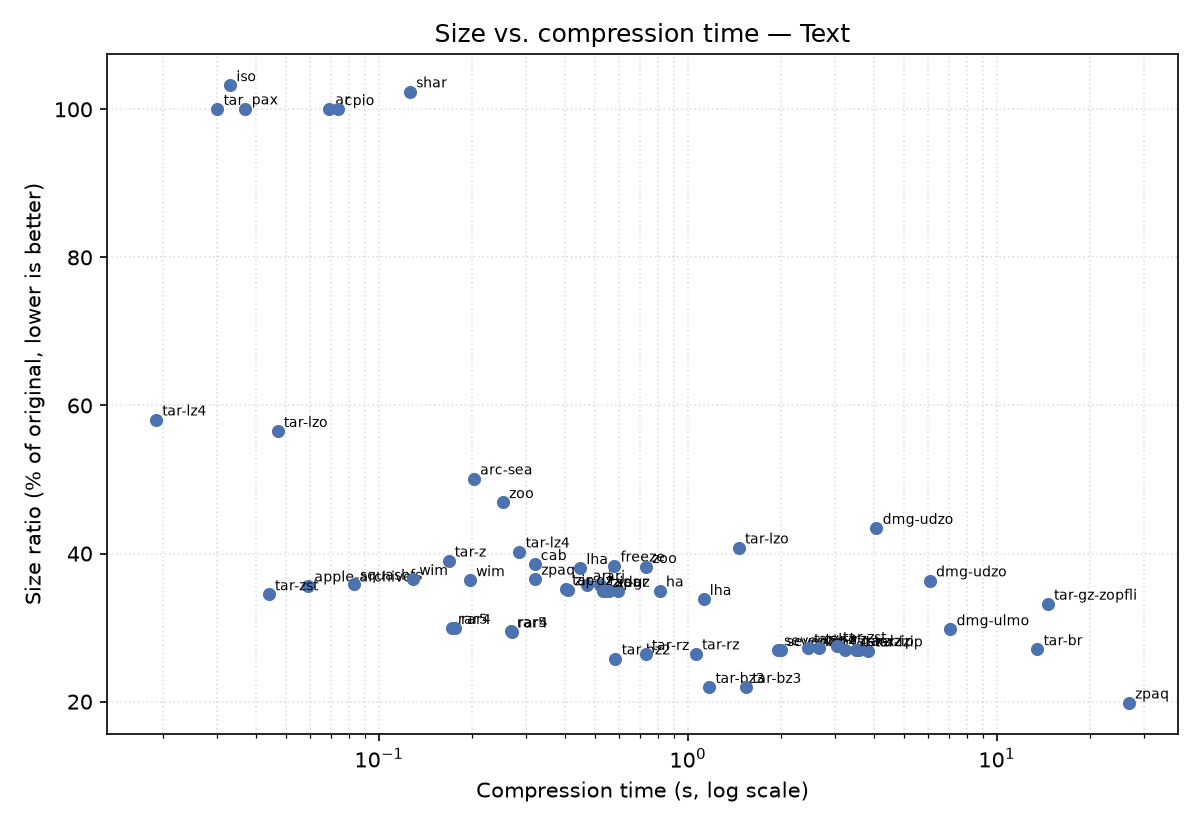
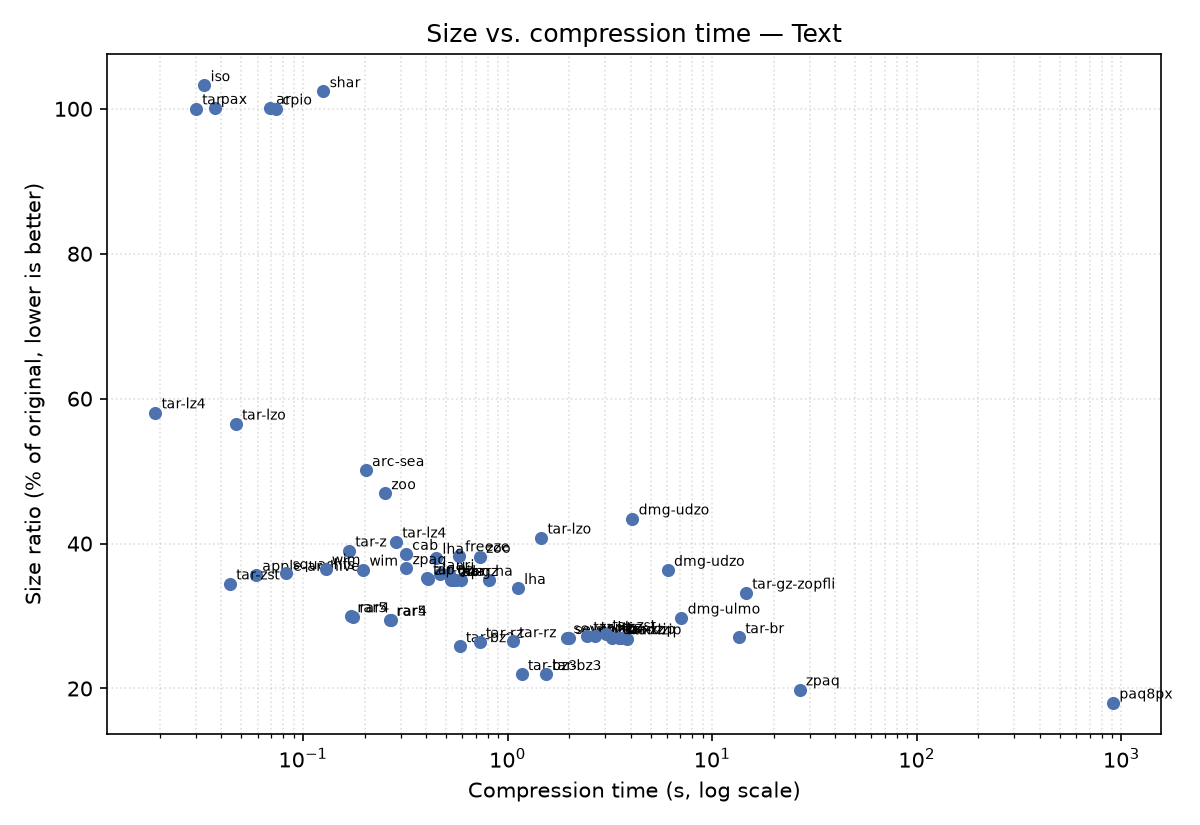
Add paq8px text result (18.0%, the smallest of any format/category)
paq8px compresses the text category to 18.04% at ~12 KB/s (~15 min each
way) vs bzip2's 25.8% in 0.6s - the paper's diminishing-returns headline.
Paper and tables updated with the concrete figure.

diff --git a/results/tables/paper_results.md b/results/tables/paper_results.md
@@ -66,72 +66,73 @@
 
 | Rank | Format | Level | Size | Ratio | Compress | Decompress | Notes |
 |---:|---|---|---:|---:|---:|---:|---|
-| 1 | zpaq (journaling PAQ-family) | max | 2.19 MB | 19.85% | 26.8 | 27.9 |  |
-| 2 | tar.bz3 (bzip3) | default | 2.42 MB | 21.96% | 1.17 | 0.65 |  |
-| 3 | tar.bz3 (bzip3) | max | 2.42 MB | 21.96% | 1.54 | 0.84 |  |
-| 4 | tar.bz2 (bzip2) | default | 2.85 MB | 25.81% | 0.58 | 0.21 |  |
-| 5 | tar.rz (rzip) | default | 2.91 MB | 26.42% | 0.73 | 0.30 |  |
-| 6 | tar.rz (rzip) | max | 2.92 MB | 26.50% | 1.06 | 0.32 |  |
-| 7 | tar.lz (lzip) | max | 2.96 MB | 26.89% | 3.84 | 0.22 |  |
-| 8 | tar.xz (xz/LZMA2) | max | 2.97 MB | 26.92% | 3.50 | 0.13 |  |
-| 9 | tar.xz (xz/LZMA2) | default | 2.97 MB | 26.92% | 3.23 | 0.12 |  |
-| 10 | 7z (7-Zip, LZMA2) | max | 2.97 MB | 26.93% | 2.00 | 0.09 |  |
-| 11 | tar.lz (lzip) | default | 2.97 MB | 26.98% | 3.59 | 0.22 |  |
-| 12 | 7z (7-Zip, LZMA2) | default | 2.98 MB | 27.03% | 1.96 | 0.09 |  |
-| 13 | tar.br (Brotli) | default | 2.98 MB | 27.05% | 13.5 | 0.04 |  |
-| 14 | tar.lrz (lrzip) | default | 3.00 MB | 27.24% | 2.45 | 0.23 |  |
-| 15 | tar.lrz (lrzip) | max | 3.00 MB | 27.24% | 2.66 | 0.23 |  |
-| 16 | tar.zst (Zstandard) | max | 3.03 MB | 27.48% | 3.03 | 0.02 |  |
-| 17 | RAR 4 (legacy format) | max | 3.25 MB | 29.45% | 0.27 | 0.06 |  |
-| 18 | RAR 5 (WinRAR/rar) | max | 3.25 MB | 29.48% | 0.27 | 0.04 |  |
-| 19 | DMG (ULMO, lzma-compressed image) | default | 3.28 MB | 29.75% | 7.07 | 0.36 |  |
-| 20 | RAR 4 (legacy format) | default | 3.30 MB | 29.92% | 0.18 | 0.06 |  |
-| 21 | RAR 5 (WinRAR/rar) | default | 3.30 MB | 29.95% | 0.17 | 0.05 |  |
-| 22 | tar.gz (zopfli, exhaustive deflate) | default | 3.66 MB | 33.20% | 14.6 | 0.03 |  |
-| 23 | LHA/LZH (1988, lh5) | max | 3.73 MB | 33.84% | 1.12 | 0.14 |  |
-| 24 | tar.zst (Zstandard) | default | 3.80 MB | 34.48% | 0.04 | 0.02 |  |
-| 25 | ZIP (Info-ZIP) | max | 3.85 MB | 34.92% | 0.54 | 0.07 |  |
-| 26 | ZIP (PKZIP 2.04g, 1993) (emu) | max | 3.85 MB | 34.95% | — | — | emulated (size only) |
-| 27 | tar.gz (gzip) | max | 3.85 MB | 34.96% | 0.53 | 0.04 |  |
-| 28 | xar (macOS eXtensible ARchiver) | default | 3.85 MB | 34.96% | 0.56 | 0.04 |  |
-| 29 | dar (Disk ARchive) | default | 3.85 MB | 34.96% | 0.59 | 0.05 |  |
-| 30 | HA (1993, PPM-family) | default | 3.86 MB | 34.99% | 0.81 | 0.35 |  |
-| 31 | ZIP (Info-ZIP) | default | 3.87 MB | 35.14% | 0.41 | 0.09 |  |
-| 32 | tar.gz (gzip) | default | 3.88 MB | 35.18% | 0.40 | 0.04 |  |
-| 33 | ZIP (PKZIP 2.04g, 1993) (emu) | default | 3.92 MB | 35.52% | — | — | emulated (size only) |
-| 34 | Apple Archive (.aar, lzfse) | default | 3.93 MB | 35.66% | 0.06 | 0.04 |  |
-| 35 | ARJ (1991) | max | 3.94 MB | 35.75% | 0.52 | 0.15 |  |
-| 36 | ARJ (1991) | default | 3.94 MB | 35.77% | 0.47 | 0.16 |  |
-| 37 | SquashFS (mksquashfs) | default | 3.96 MB | 35.89% | 0.08 | 0.03 |  |
-| 38 | DMG (UDZO, zlib-compressed image) | max | 4.01 MB | 36.35% | 6.07 | 0.22 |  |
-| 39 | WIM (wimlib, LZX) | max | 4.01 MB | 36.38% | 0.20 | 0.05 |  |
-| 40 | WIM (wimlib, LZX) | default | 4.03 MB | 36.53% | 0.13 | 0.05 |  |
-| 41 | zpaq (journaling PAQ-family) | default | 4.03 MB | 36.59% | 0.32 | 1.18 |  |
-| 42 | LHA/LZH (1988, lh5) | default | 4.19 MB | 38.02% | 0.45 | 0.16 |  |
-| 43 | zoo (1986) | max | 4.21 MB | 38.15% | 0.73 | 0.23 |  |
-| 44 | freeze (1993) | default | 4.23 MB | 38.35% | 0.58 | 0.22 |  |
-| 45 | CAB (gcab, MSZIP) | default | 4.25 MB | 38.55% | 0.32 | 0.05 |  |
-| 46 | tar.Z (compress, LZW 1984) | default | 4.30 MB | 39.03% | 0.17 | 0.09 |  |
-| 47 | tar.lz4 (LZ4) | max | 4.44 MB | 40.26% | 0.28 | 0.03 |  |
-| 48 | tar.lzo (lzop) | max | 4.50 MB | 40.80% | 1.46 | 0.03 |  |
-| 49 | DMG (UDZO, zlib-compressed image) | default | 4.79 MB | 43.44% | 4.08 | 0.23 |  |
-| 50 | zoo (1986) | default | 5.17 MB | 46.93% | 0.25 | 0.09 |  |
-| 51 | ARC (SEA, 1985) | default | 5.53 MB | 50.12% | 0.20 | 0.12 |  |
-| 52 | tar.lzo (lzop) | default | 6.23 MB | 56.53% | 0.05 | 0.05 |  |
-| 53 | tar.lz4 (LZ4) | default | 6.40 MB | 58.09% | 0.02 | 0.02 |  |
-| 54 | cpio (appendix: store-only) | default | 11.02 MB | 100.01% | 0.07 | 0.02 |  |
-| 55 | tar (uncompressed, baseline) | default | 11.03 MB | 100.04% | 0.03 | 0.03 |  |
-| 56 | pax (appendix: POSIX archiver) | default | 11.04 MB | 100.10% | 0.04 | 0.04 |  |
-| 57 | ar (appendix: unix archiver, store-only) | default | 11.04 MB | 100.10% | 0.07 | 0.04 |  |
-| 58 | shar (appendix: shell archive) | default | 11.29 MB | 102.40% | 0.13 | 0.18 |  |
-| 59 | ISO 9660 (mkisofs, store-only) | default | 11.38 MB | 103.24% | 0.03 | 0.01 |  |
+| 1 | paq8px (context mixing, state of the art) | default | 1.99 MB | 18.04% | 15.2m | 15.2m |  |
+| 2 | zpaq (journaling PAQ-family) | max | 2.19 MB | 19.85% | 26.8 | 27.9 |  |
+| 3 | tar.bz3 (bzip3) | default | 2.42 MB | 21.96% | 1.17 | 0.65 |  |
+| 4 | tar.bz3 (bzip3) | max | 2.42 MB | 21.96% | 1.54 | 0.84 |  |
+| 5 | tar.bz2 (bzip2) | default | 2.85 MB | 25.81% | 0.58 | 0.21 |  |
+| 6 | tar.rz (rzip) | default | 2.91 MB | 26.42% | 0.73 | 0.30 |  |
+| 7 | tar.rz (rzip) | max | 2.92 MB | 26.50% | 1.06 | 0.32 |  |
+| 8 | tar.lz (lzip) | max | 2.96 MB | 26.89% | 3.84 | 0.22 |  |
+| 9 | tar.xz (xz/LZMA2) | max | 2.97 MB | 26.92% | 3.50 | 0.13 |  |
+| 10 | tar.xz (xz/LZMA2) | default | 2.97 MB | 26.92% | 3.23 | 0.12 |  |
+| 11 | 7z (7-Zip, LZMA2) | max | 2.97 MB | 26.93% | 2.00 | 0.09 |  |
+| 12 | tar.lz (lzip) | default | 2.97 MB | 26.98% | 3.59 | 0.22 |  |
+| 13 | 7z (7-Zip, LZMA2) | default | 2.98 MB | 27.03% | 1.96 | 0.09 |  |
+| 14 | tar.br (Brotli) | default | 2.98 MB | 27.05% | 13.5 | 0.04 |  |
+| 15 | tar.lrz (lrzip) | default | 3.00 MB | 27.24% | 2.45 | 0.23 |  |
+| 16 | tar.lrz (lrzip) | max | 3.00 MB | 27.24% | 2.66 | 0.23 |  |
+| 17 | tar.zst (Zstandard) | max | 3.03 MB | 27.48% | 3.03 | 0.02 |  |
+| 18 | RAR 4 (legacy format) | max | 3.25 MB | 29.45% | 0.27 | 0.06 |  |
+| 19 | RAR 5 (WinRAR/rar) | max | 3.25 MB | 29.48% | 0.27 | 0.04 |  |
+| 20 | DMG (ULMO, lzma-compressed image) | default | 3.28 MB | 29.75% | 7.07 | 0.36 |  |
+| 21 | RAR 4 (legacy format) | default | 3.30 MB | 29.92% | 0.18 | 0.06 |  |
+| 22 | RAR 5 (WinRAR/rar) | default | 3.30 MB | 29.95% | 0.17 | 0.05 |  |
+| 23 | tar.gz (zopfli, exhaustive deflate) | default | 3.66 MB | 33.20% | 14.6 | 0.03 |  |
+| 24 | LHA/LZH (1988, lh5) | max | 3.73 MB | 33.84% | 1.12 | 0.14 |  |
+| 25 | tar.zst (Zstandard) | default | 3.80 MB | 34.48% | 0.04 | 0.02 |  |
+| 26 | ZIP (Info-ZIP) | max | 3.85 MB | 34.92% | 0.54 | 0.07 |  |
+| 27 | ZIP (PKZIP 2.04g, 1993) (emu) | max | 3.85 MB | 34.95% | — | — | emulated (size only) |
+| 28 | tar.gz (gzip) | max | 3.85 MB | 34.96% | 0.53 | 0.04 |  |
+| 29 | xar (macOS eXtensible ARchiver) | default | 3.85 MB | 34.96% | 0.56 | 0.04 |  |
+| 30 | dar (Disk ARchive) | default | 3.85 MB | 34.96% | 0.59 | 0.05 |  |
+| 31 | HA (1993, PPM-family) | default | 3.86 MB | 34.99% | 0.81 | 0.35 |  |
+| 32 | ZIP (Info-ZIP) | default | 3.87 MB | 35.14% | 0.41 | 0.09 |  |
+| 33 | tar.gz (gzip) | default | 3.88 MB | 35.18% | 0.40 | 0.04 |  |
+| 34 | ZIP (PKZIP 2.04g, 1993) (emu) | default | 3.92 MB | 35.52% | — | — | emulated (size only) |
+| 35 | Apple Archive (.aar, lzfse) | default | 3.93 MB | 35.66% | 0.06 | 0.04 |  |
+| 36 | ARJ (1991) | max | 3.94 MB | 35.75% | 0.52 | 0.15 |  |
+| 37 | ARJ (1991) | default | 3.94 MB | 35.77% | 0.47 | 0.16 |  |
+| 38 | SquashFS (mksquashfs) | default | 3.96 MB | 35.89% | 0.08 | 0.03 |  |
+| 39 | DMG (UDZO, zlib-compressed image) | max | 4.01 MB | 36.35% | 6.07 | 0.22 |  |
+| 40 | WIM (wimlib, LZX) | max | 4.01 MB | 36.38% | 0.20 | 0.05 |  |
+| 41 | WIM (wimlib, LZX) | default | 4.03 MB | 36.53% | 0.13 | 0.05 |  |
+| 42 | zpaq (journaling PAQ-family) | default | 4.03 MB | 36.59% | 0.32 | 1.18 |  |
+| 43 | LHA/LZH (1988, lh5) | default | 4.19 MB | 38.02% | 0.45 | 0.16 |  |
+| 44 | zoo (1986) | max | 4.21 MB | 38.15% | 0.73 | 0.23 |  |
+| 45 | freeze (1993) | default | 4.23 MB | 38.35% | 0.58 | 0.22 |  |
+| 46 | CAB (gcab, MSZIP) | default | 4.25 MB | 38.55% | 0.32 | 0.05 |  |
+| 47 | tar.Z (compress, LZW 1984) | default | 4.30 MB | 39.03% | 0.17 | 0.09 |  |
+| 48 | tar.lz4 (LZ4) | max | 4.44 MB | 40.26% | 0.28 | 0.03 |  |
+| 49 | tar.lzo (lzop) | max | 4.50 MB | 40.80% | 1.46 | 0.03 |  |
+| 50 | DMG (UDZO, zlib-compressed image) | default | 4.79 MB | 43.44% | 4.08 | 0.23 |  |
+| 51 | zoo (1986) | default | 5.17 MB | 46.93% | 0.25 | 0.09 |  |
+| 52 | ARC (SEA, 1985) | default | 5.53 MB | 50.12% | 0.20 | 0.12 |  |
+| 53 | tar.lzo (lzop) | default | 6.23 MB | 56.53% | 0.05 | 0.05 |  |
+| 54 | tar.lz4 (LZ4) | default | 6.40 MB | 58.09% | 0.02 | 0.02 |  |
+| 55 | cpio (appendix: store-only) | default | 11.02 MB | 100.01% | 0.07 | 0.02 |  |
+| 56 | tar (uncompressed, baseline) | default | 11.03 MB | 100.04% | 0.03 | 0.03 |  |
+| 57 | pax (appendix: POSIX archiver) | default | 11.04 MB | 100.10% | 0.04 | 0.04 |  |
+| 58 | ar (appendix: unix archiver, store-only) | default | 11.04 MB | 100.10% | 0.07 | 0.04 |  |
+| 59 | shar (appendix: shell archive) | default | 11.29 MB | 102.40% | 0.13 | 0.18 |  |
+| 60 | ISO 9660 (mkisofs, store-only) | default | 11.38 MB | 103.24% | 0.03 | 0.01 |  |
 
 
 ### Best format per content category
 
 | Category | Smallest format | Ratio | Practical winner (mainstream) |
 |---|---|---:|---|
-| Text | zpaq (journaling PAQ-family) (max) | 19.85% | tar.xz (xz/LZMA2) — 26.92% |
+| Text | paq8px (context mixing, state of the art) (default) | 18.04% | tar.xz (xz/LZMA2) — 26.92% |
 | Documents | zpaq (journaling PAQ-family) (max) | 59.31% | tar.zst (Zstandard) — 59.72% |
 | Images | zpaq (journaling PAQ-family) (max) | 67.37% | RAR 5 (WinRAR/rar) — 74.25% |
 | Video | zpaq (journaling PAQ-family) (max) | 98.50% | tar.xz (xz/LZMA2) — 98.62% |

diff --git a/results/tables/results.md b/results/tables/results.md
@@ -8,65 +8,66 @@ Generated by `harness/report.py` from the committed raw run-units in `results/ra
 
 | Rank | Format | Level | Size | Ratio | Compress | Decompress | Notes |
 |---:|---|---|---:|---:|---:|---:|---|
-| 1 | zpaq (journaling PAQ-family) | max | 2.19 MB | 19.85% | 26.8 | 27.9 |  |
-| 2 | tar.bz3 (bzip3) | default | 2.42 MB | 21.96% | 1.17 | 0.65 |  |
-| 3 | tar.bz3 (bzip3) | max | 2.42 MB | 21.96% | 1.54 | 0.84 |  |
-| 4 | tar.bz2 (bzip2) | default | 2.85 MB | 25.81% | 0.58 | 0.21 |  |
-| 5 | tar.rz (rzip) | default | 2.91 MB | 26.42% | 0.73 | 0.30 |  |
-| 6 | tar.rz (rzip) | max | 2.92 MB | 26.50% | 1.06 | 0.32 |  |
-| 7 | tar.lz (lzip) | max | 2.96 MB | 26.89% | 3.84 | 0.22 |  |
-| 8 | tar.xz (xz/LZMA2) | max | 2.97 MB | 26.92% | 3.50 | 0.13 |  |
-| 9 | tar.xz (xz/LZMA2) | default | 2.97 MB | 26.92% | 3.23 | 0.12 |  |
-| 10 | 7z (7-Zip, LZMA2) | max | 2.97 MB | 26.93% | 2.00 | 0.09 |  |
-| 11 | tar.lz (lzip) | default | 2.97 MB | 26.98% | 3.59 | 0.22 |  |
-| 12 | 7z (7-Zip, LZMA2) | default | 2.98 MB | 27.03% | 1.96 | 0.09 |  |
-| 13 | tar.br (Brotli) | default | 2.98 MB | 27.05% | 13.5 | 0.04 |  |
-| 14 | tar.lrz (lrzip) | default | 3.00 MB | 27.24% | 2.45 | 0.23 |  |
-| 15 | tar.lrz (lrzip) | max | 3.00 MB | 27.24% | 2.66 | 0.23 |  |
-| 16 | tar.zst (Zstandard) | max | 3.03 MB | 27.48% | 3.03 | 0.02 |  |
-| 17 | RAR 4 (legacy format) | max | 3.25 MB | 29.45% | 0.27 | 0.06 |  |
-| 18 | RAR 5 (WinRAR/rar) | max | 3.25 MB | 29.48% | 0.27 | 0.04 |  |
-| 19 | DMG (ULMO, lzma-compressed image) | default | 3.28 MB | 29.75% | 7.07 | 0.36 |  |
-| 20 | RAR 4 (legacy format) | default | 3.30 MB | 29.92% | 0.18 | 0.06 |  |
-| 21 | RAR 5 (WinRAR/rar) | default | 3.30 MB | 29.95% | 0.17 | 0.05 |  |
-| 22 | tar.gz (zopfli, exhaustive deflate) | default | 3.66 MB | 33.20% | 14.6 | 0.03 |  |
-| 23 | LHA/LZH (1988, lh5) | max | 3.73 MB | 33.84% | 1.12 | 0.14 |  |
-| 24 | tar.zst (Zstandard) | default | 3.80 MB | 34.48% | 0.04 | 0.02 |  |
-| 25 | ZIP (Info-ZIP) | max | 3.85 MB | 34.92% | 0.54 | 0.07 |  |
-| 26 | ZIP (PKZIP 2.04g, 1993) (emu) | max | 3.85 MB | 34.95% | — | — | emulated (size only) |
-| 27 | tar.gz (gzip) | max | 3.85 MB | 34.96% | 0.53 | 0.04 |  |
-| 28 | xar (macOS eXtensible ARchiver) | default | 3.85 MB | 34.96% | 0.56 | 0.04 |  |
-| 29 | dar (Disk ARchive) | default | 3.85 MB | 34.96% | 0.59 | 0.05 |  |
-| 30 | HA (1993, PPM-family) | default | 3.86 MB | 34.99% | 0.81 | 0.35 |  |
-| 31 | ZIP (Info-ZIP) | default | 3.87 MB | 35.14% | 0.41 | 0.09 |  |
-| 32 | tar.gz (gzip) | default | 3.88 MB | 35.18% | 0.40 | 0.04 |  |
-| 33 | ZIP (PKZIP 2.04g, 1993) (emu) | default | 3.92 MB | 35.52% | — | — | emulated (size only) |
-| 34 | Apple Archive (.aar, lzfse) | default | 3.93 MB | 35.66% | 0.06 | 0.04 |  |
-| 35 | ARJ (1991) | max | 3.94 MB | 35.75% | 0.52 | 0.15 |  |
-| 36 | ARJ (1991) | default | 3.94 MB | 35.77% | 0.47 | 0.16 |  |
-| 37 | SquashFS (mksquashfs) | default | 3.96 MB | 35.89% | 0.08 | 0.03 |  |
-| 38 | DMG (UDZO, zlib-compressed image) | max | 4.01 MB | 36.35% | 6.07 | 0.22 |  |
-| 39 | WIM (wimlib, LZX) | max | 4.01 MB | 36.38% | 0.20 | 0.05 |  |
-| 40 | WIM (wimlib, LZX) | default | 4.03 MB | 36.53% | 0.13 | 0.05 |  |
-| 41 | zpaq (journaling PAQ-family) | default | 4.03 MB | 36.59% | 0.32 | 1.18 |  |
-| 42 | LHA/LZH (1988, lh5) | default | 4.19 MB | 38.02% | 0.45 | 0.16 |  |
-| 43 | zoo (1986) | max | 4.21 MB | 38.15% | 0.73 | 0.23 |  |
-| 44 | freeze (1993) | default | 4.23 MB | 38.35% | 0.58 | 0.22 |  |
-| 45 | CAB (gcab, MSZIP) | default | 4.25 MB | 38.55% | 0.32 | 0.05 |  |
-| 46 | tar.Z (compress, LZW 1984) | default | 4.30 MB | 39.03% | 0.17 | 0.09 |  |
-| 47 | tar.lz4 (LZ4) | max | 4.44 MB | 40.26% | 0.28 | 0.03 |  |
-| 48 | tar.lzo (lzop) | max | 4.50 MB | 40.80% | 1.46 | 0.03 |  |
-| 49 | DMG (UDZO, zlib-compressed image) | default | 4.79 MB | 43.44% | 4.08 | 0.23 |  |
-| 50 | zoo (1986) | default | 5.17 MB | 46.93% | 0.25 | 0.09 |  |
-| 51 | ARC (SEA, 1985) | default | 5.53 MB | 50.12% | 0.20 | 0.12 |  |
-| 52 | tar.lzo (lzop) | default | 6.23 MB | 56.53% | 0.05 | 0.05 |  |
-| 53 | tar.lz4 (LZ4) | default | 6.40 MB | 58.09% | 0.02 | 0.02 |  |
-| 54 | cpio (appendix: store-only) | default | 11.02 MB | 100.01% | 0.07 | 0.02 |  |
-| 55 | tar (uncompressed, baseline) | default | 11.03 MB | 100.04% | 0.03 | 0.03 |  |
-| 56 | pax (appendix: POSIX archiver) | default | 11.04 MB | 100.10% | 0.04 | 0.04 |  |
-| 57 | ar (appendix: unix archiver, store-only) | default | 11.04 MB | 100.10% | 0.07 | 0.04 |  |
-| 58 | shar (appendix: shell archive) | default | 11.29 MB | 102.40% | 0.13 | 0.18 |  |
-| 59 | ISO 9660 (mkisofs, store-only) | default | 11.38 MB | 103.24% | 0.03 | 0.01 |  |
+| 1 | paq8px (context mixing, state of the art) | default | 1.99 MB | 18.04% | 15.2m | 15.2m |  |
+| 2 | zpaq (journaling PAQ-family) | max | 2.19 MB | 19.85% | 26.8 | 27.9 |  |
+| 3 | tar.bz3 (bzip3) | default | 2.42 MB | 21.96% | 1.17 | 0.65 |  |
+| 4 | tar.bz3 (bzip3) | max | 2.42 MB | 21.96% | 1.54 | 0.84 |  |
+| 5 | tar.bz2 (bzip2) | default | 2.85 MB | 25.81% | 0.58 | 0.21 |  |
+| 6 | tar.rz (rzip) | default | 2.91 MB | 26.42% | 0.73 | 0.30 |  |
+| 7 | tar.rz (rzip) | max | 2.92 MB | 26.50% | 1.06 | 0.32 |  |
+| 8 | tar.lz (lzip) | max | 2.96 MB | 26.89% | 3.84 | 0.22 |  |
+| 9 | tar.xz (xz/LZMA2) | max | 2.97 MB | 26.92% | 3.50 | 0.13 |  |
+| 10 | tar.xz (xz/LZMA2) | default | 2.97 MB | 26.92% | 3.23 | 0.12 |  |
+| 11 | 7z (7-Zip, LZMA2) | max | 2.97 MB | 26.93% | 2.00 | 0.09 |  |
+| 12 | tar.lz (lzip) | default | 2.97 MB | 26.98% | 3.59 | 0.22 |  |
+| 13 | 7z (7-Zip, LZMA2) | default | 2.98 MB | 27.03% | 1.96 | 0.09 |  |
+| 14 | tar.br (Brotli) | default | 2.98 MB | 27.05% | 13.5 | 0.04 |  |
+| 15 | tar.lrz (lrzip) | default | 3.00 MB | 27.24% | 2.45 | 0.23 |  |
+| 16 | tar.lrz (lrzip) | max | 3.00 MB | 27.24% | 2.66 | 0.23 |  |
+| 17 | tar.zst (Zstandard) | max | 3.03 MB | 27.48% | 3.03 | 0.02 |  |
+| 18 | RAR 4 (legacy format) | max | 3.25 MB | 29.45% | 0.27 | 0.06 |  |
+| 19 | RAR 5 (WinRAR/rar) | max | 3.25 MB | 29.48% | 0.27 | 0.04 |  |
+| 20 | DMG (ULMO, lzma-compressed image) | default | 3.28 MB | 29.75% | 7.07 | 0.36 |  |
+| 21 | RAR 4 (legacy format) | default | 3.30 MB | 29.92% | 0.18 | 0.06 |  |
+| 22 | RAR 5 (WinRAR/rar) | default | 3.30 MB | 29.95% | 0.17 | 0.05 |  |
+| 23 | tar.gz (zopfli, exhaustive deflate) | default | 3.66 MB | 33.20% | 14.6 | 0.03 |  |
+| 24 | LHA/LZH (1988, lh5) | max | 3.73 MB | 33.84% | 1.12 | 0.14 |  |
+| 25 | tar.zst (Zstandard) | default | 3.80 MB | 34.48% | 0.04 | 0.02 |  |
+| 26 | ZIP (Info-ZIP) | max | 3.85 MB | 34.92% | 0.54 | 0.07 |  |
+| 27 | ZIP (PKZIP 2.04g, 1993) (emu) | max | 3.85 MB | 34.95% | — | — | emulated (size only) |
+| 28 | tar.gz (gzip) | max | 3.85 MB | 34.96% | 0.53 | 0.04 |  |
+| 29 | xar (macOS eXtensible ARchiver) | default | 3.85 MB | 34.96% | 0.56 | 0.04 |  |
+| 30 | dar (Disk ARchive) | default | 3.85 MB | 34.96% | 0.59 | 0.05 |  |
+| 31 | HA (1993, PPM-family) | default | 3.86 MB | 34.99% | 0.81 | 0.35 |  |
+| 32 | ZIP (Info-ZIP) | default | 3.87 MB | 35.14% | 0.41 | 0.09 |  |
+| 33 | tar.gz (gzip) | default | 3.88 MB | 35.18% | 0.40 | 0.04 |  |
+| 34 | ZIP (PKZIP 2.04g, 1993) (emu) | default | 3.92 MB | 35.52% | — | — | emulated (size only) |
+| 35 | Apple Archive (.aar, lzfse) | default | 3.93 MB | 35.66% | 0.06 | 0.04 |  |
+| 36 | ARJ (1991) | max | 3.94 MB | 35.75% | 0.52 | 0.15 |  |
+| 37 | ARJ (1991) | default | 3.94 MB | 35.77% | 0.47 | 0.16 |  |
+| 38 | SquashFS (mksquashfs) | default | 3.96 MB | 35.89% | 0.08 | 0.03 |  |
+| 39 | DMG (UDZO, zlib-compressed image) | max | 4.01 MB | 36.35% | 6.07 | 0.22 |  |
+| 40 | WIM (wimlib, LZX) | max | 4.01 MB | 36.38% | 0.20 | 0.05 |  |
+| 41 | WIM (wimlib, LZX) | default | 4.03 MB | 36.53% | 0.13 | 0.05 |  |
+| 42 | zpaq (journaling PAQ-family) | default | 4.03 MB | 36.59% | 0.32 | 1.18 |  |
+| 43 | LHA/LZH (1988, lh5) | default | 4.19 MB | 38.02% | 0.45 | 0.16 |  |
+| 44 | zoo (1986) | max | 4.21 MB | 38.15% | 0.73 | 0.23 |  |
+| 45 | freeze (1993) | default | 4.23 MB | 38.35% | 0.58 | 0.22 |  |
+| 46 | CAB (gcab, MSZIP) | default | 4.25 MB | 38.55% | 0.32 | 0.05 |  |
+| 47 | tar.Z (compress, LZW 1984) | default | 4.30 MB | 39.03% | 0.17 | 0.09 |  |
+| 48 | tar.lz4 (LZ4) | max | 4.44 MB | 40.26% | 0.28 | 0.03 |  |
+| 49 | tar.lzo (lzop) | max | 4.50 MB | 40.80% | 1.46 | 0.03 |  |
+| 50 | DMG (UDZO, zlib-compressed image) | default | 4.79 MB | 43.44% | 4.08 | 0.23 |  |
+| 51 | zoo (1986) | default | 5.17 MB | 46.93% | 0.25 | 0.09 |  |
+| 52 | ARC (SEA, 1985) | default | 5.53 MB | 50.12% | 0.20 | 0.12 |  |
+| 53 | tar.lzo (lzop) | default | 6.23 MB | 56.53% | 0.05 | 0.05 |  |
+| 54 | tar.lz4 (LZ4) | default | 6.40 MB | 58.09% | 0.02 | 0.02 |  |
+| 55 | cpio (appendix: store-only) | default | 11.02 MB | 100.01% | 0.07 | 0.02 |  |
+| 56 | tar (uncompressed, baseline) | default | 11.03 MB | 100.04% | 0.03 | 0.03 |  |
+| 57 | pax (appendix: POSIX archiver) | default | 11.04 MB | 100.10% | 0.04 | 0.04 |  |
+| 58 | ar (appendix: unix archiver, store-only) | default | 11.04 MB | 100.10% | 0.07 | 0.04 |  |
+| 59 | shar (appendix: shell archive) | default | 11.29 MB | 102.40% | 0.13 | 0.18 |  |
+| 60 | ISO 9660 (mkisofs, store-only) | default | 11.38 MB | 103.24% | 0.03 | 0.01 |  |
 
 ### Documents (14.78 MB)
 

diff --git a/paper/paper.md b/paper/paper.md
@@ -229,14 +229,15 @@ are not comparable).](figures/pareto_full.png){width=90%}
   context-mixing archiver **zpaq** reached **56%** at its maximum setting—the
   smallest of any format on the full corpus—but took roughly 150 seconds to
   compress and again to decompress, against 7-Zip's four. The even more extreme
-  paq8px goes further still on pure text, at a throughput of roughly 12 KB/s
-  that makes it impractical for a whole folder, and only paq8px itself can open
-  its output.
+  context-mixing **paq8px** goes further still, compressing the text category to
+  **18.0%**—the smallest result any format achieved on any category—but at a
+  throughput near 12 KB/s: about fifteen minutes to compress the 11 MB of text,
+  and as long again to decompress, with an archive only paq8px itself can open.
 
 **Diminishing returns are dramatic.** On text, the best mainstream tools
 (bzip2 at 25.8%, 7-Zip and xz at about 27%) sit within a few percentage points
-of the exotic maximum, while costing a fraction of a second rather than tens of
-seconds. Plain ZIP reached 35%—and, strikingly, the *1993* PKZIP 2.04g binary
+of the exotic maximum—zpaq's 19.9% and paq8px's 18.0%—while costing a fraction
+of a second rather than the minutes those extreme tools demand. Plain ZIP reached 35%—and, strikingly, the *1993* PKZIP 2.04g binary
 we ran under DOS emulation produced a nearly identical 35.5%, a reminder that
 the ZIP format a casual user gets today is essentially the one from three
 decades ago. This is the single most important practical takeaway: beyond the